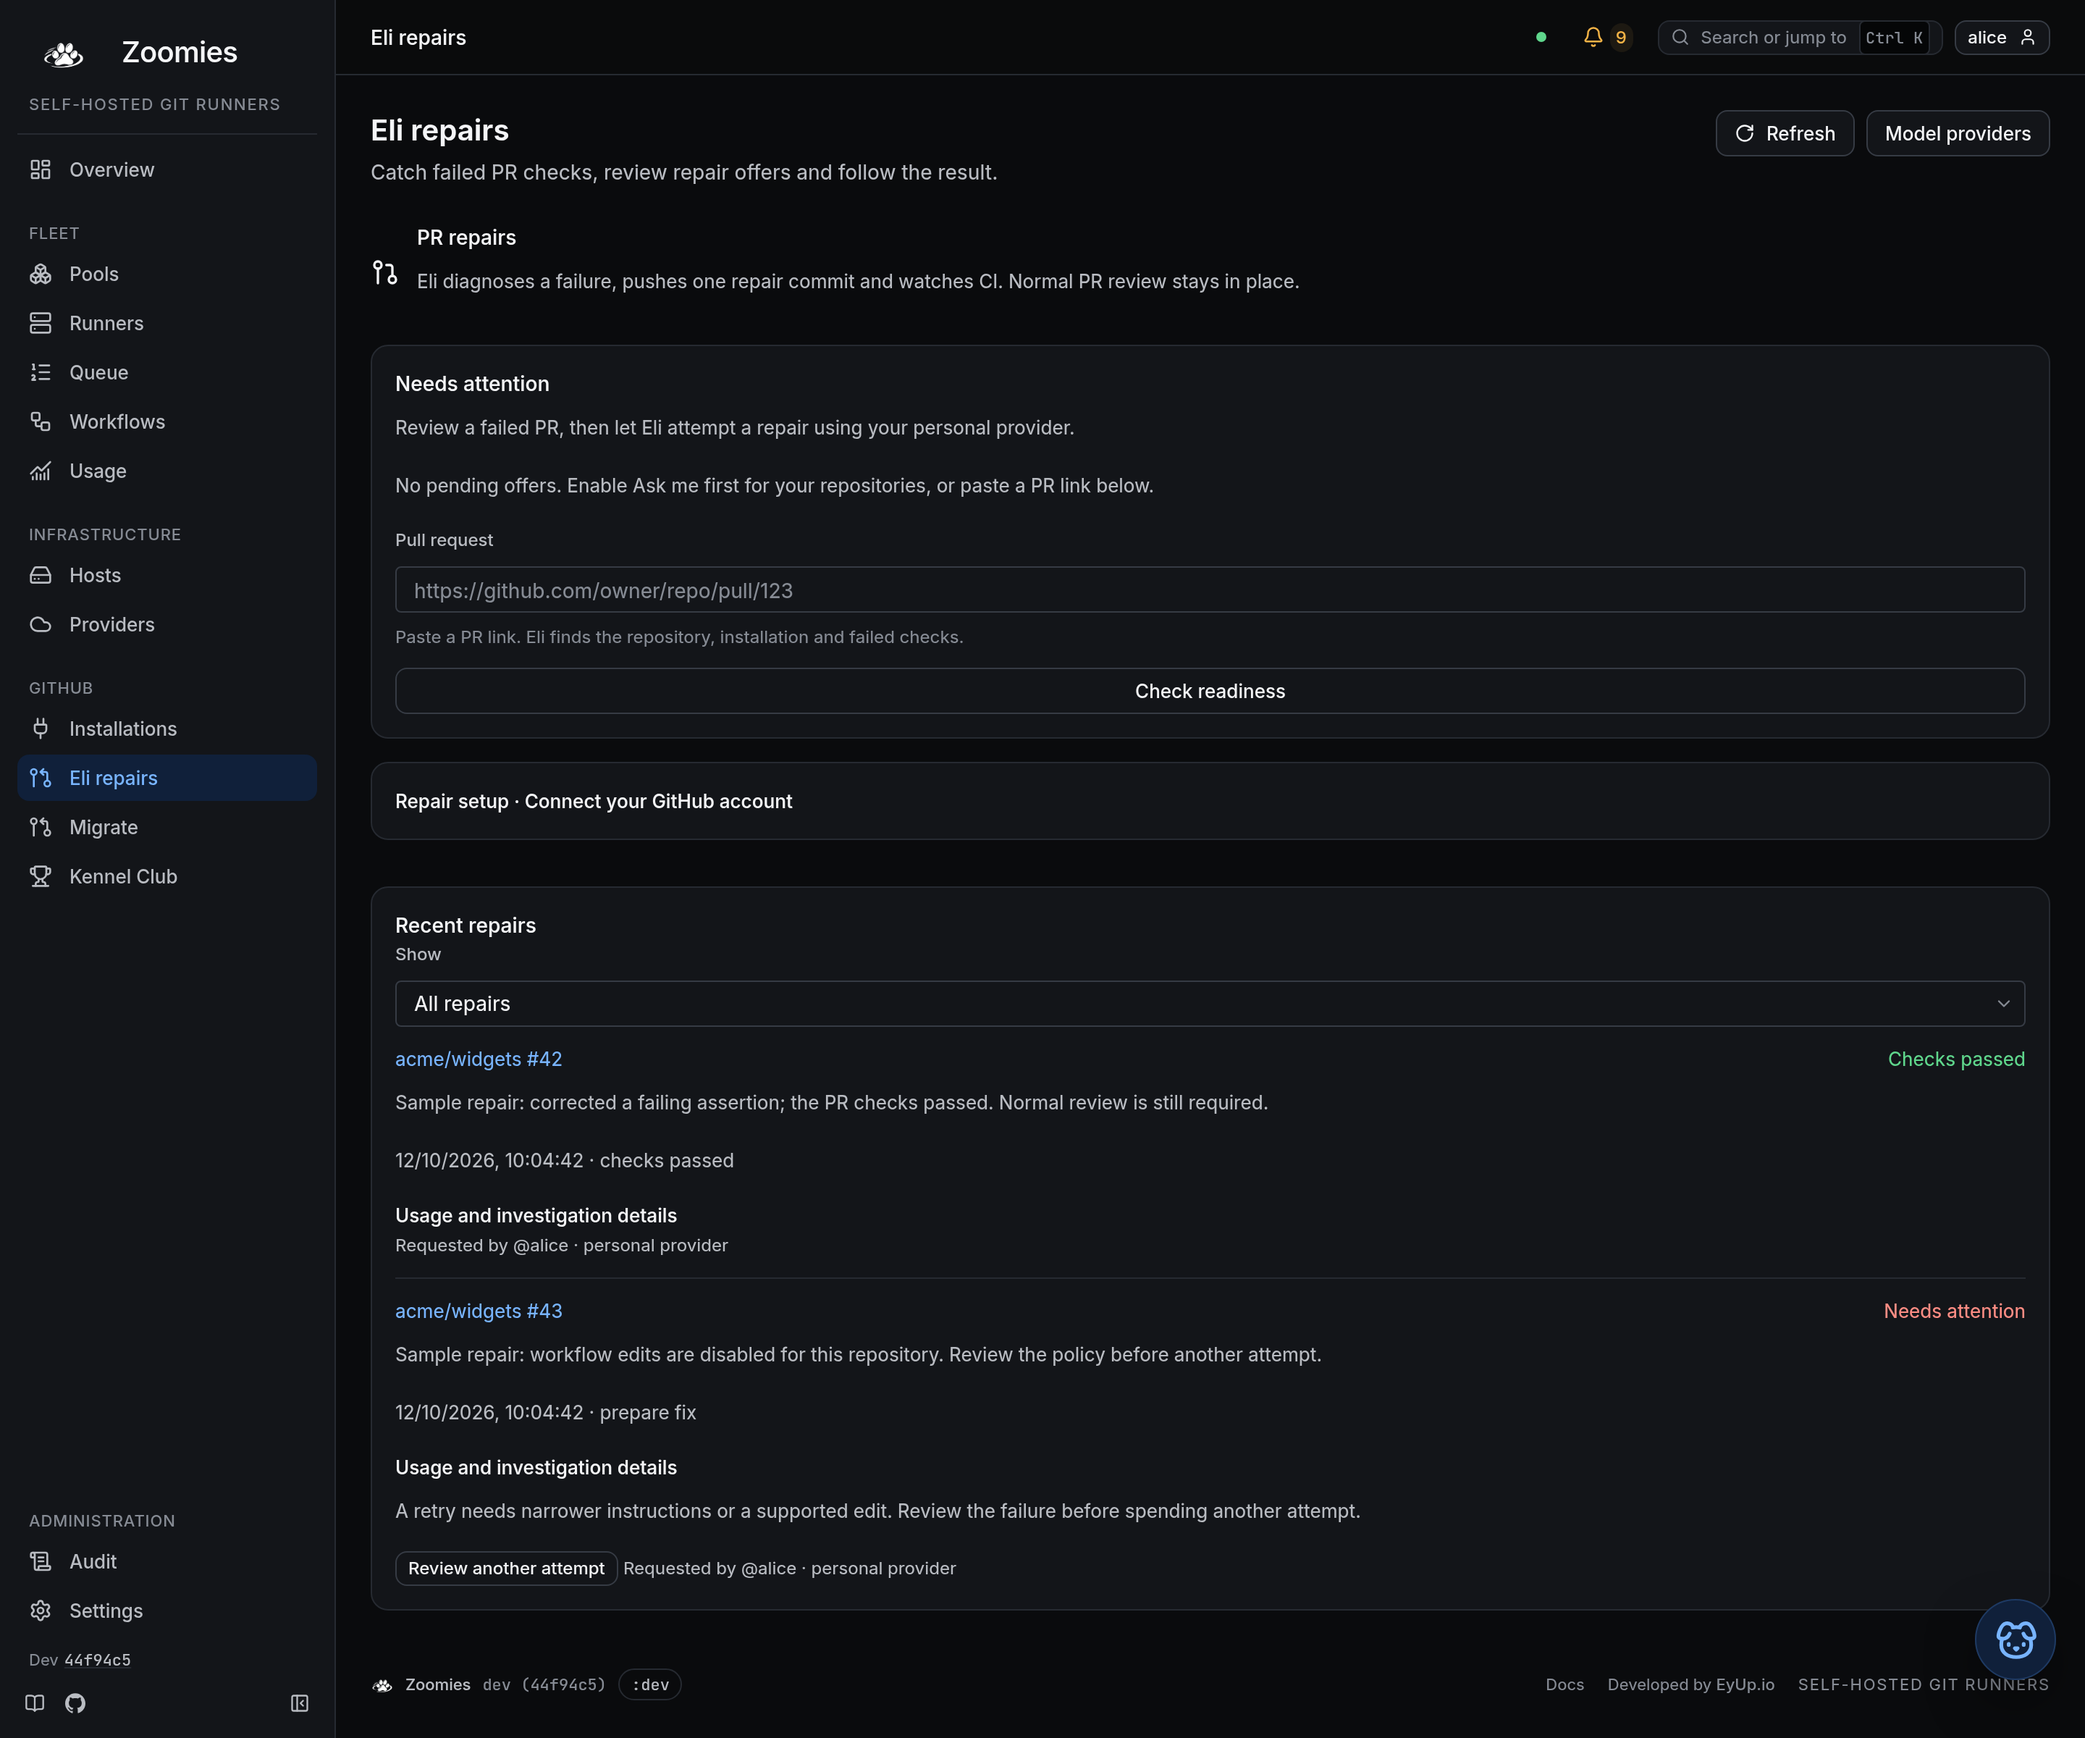
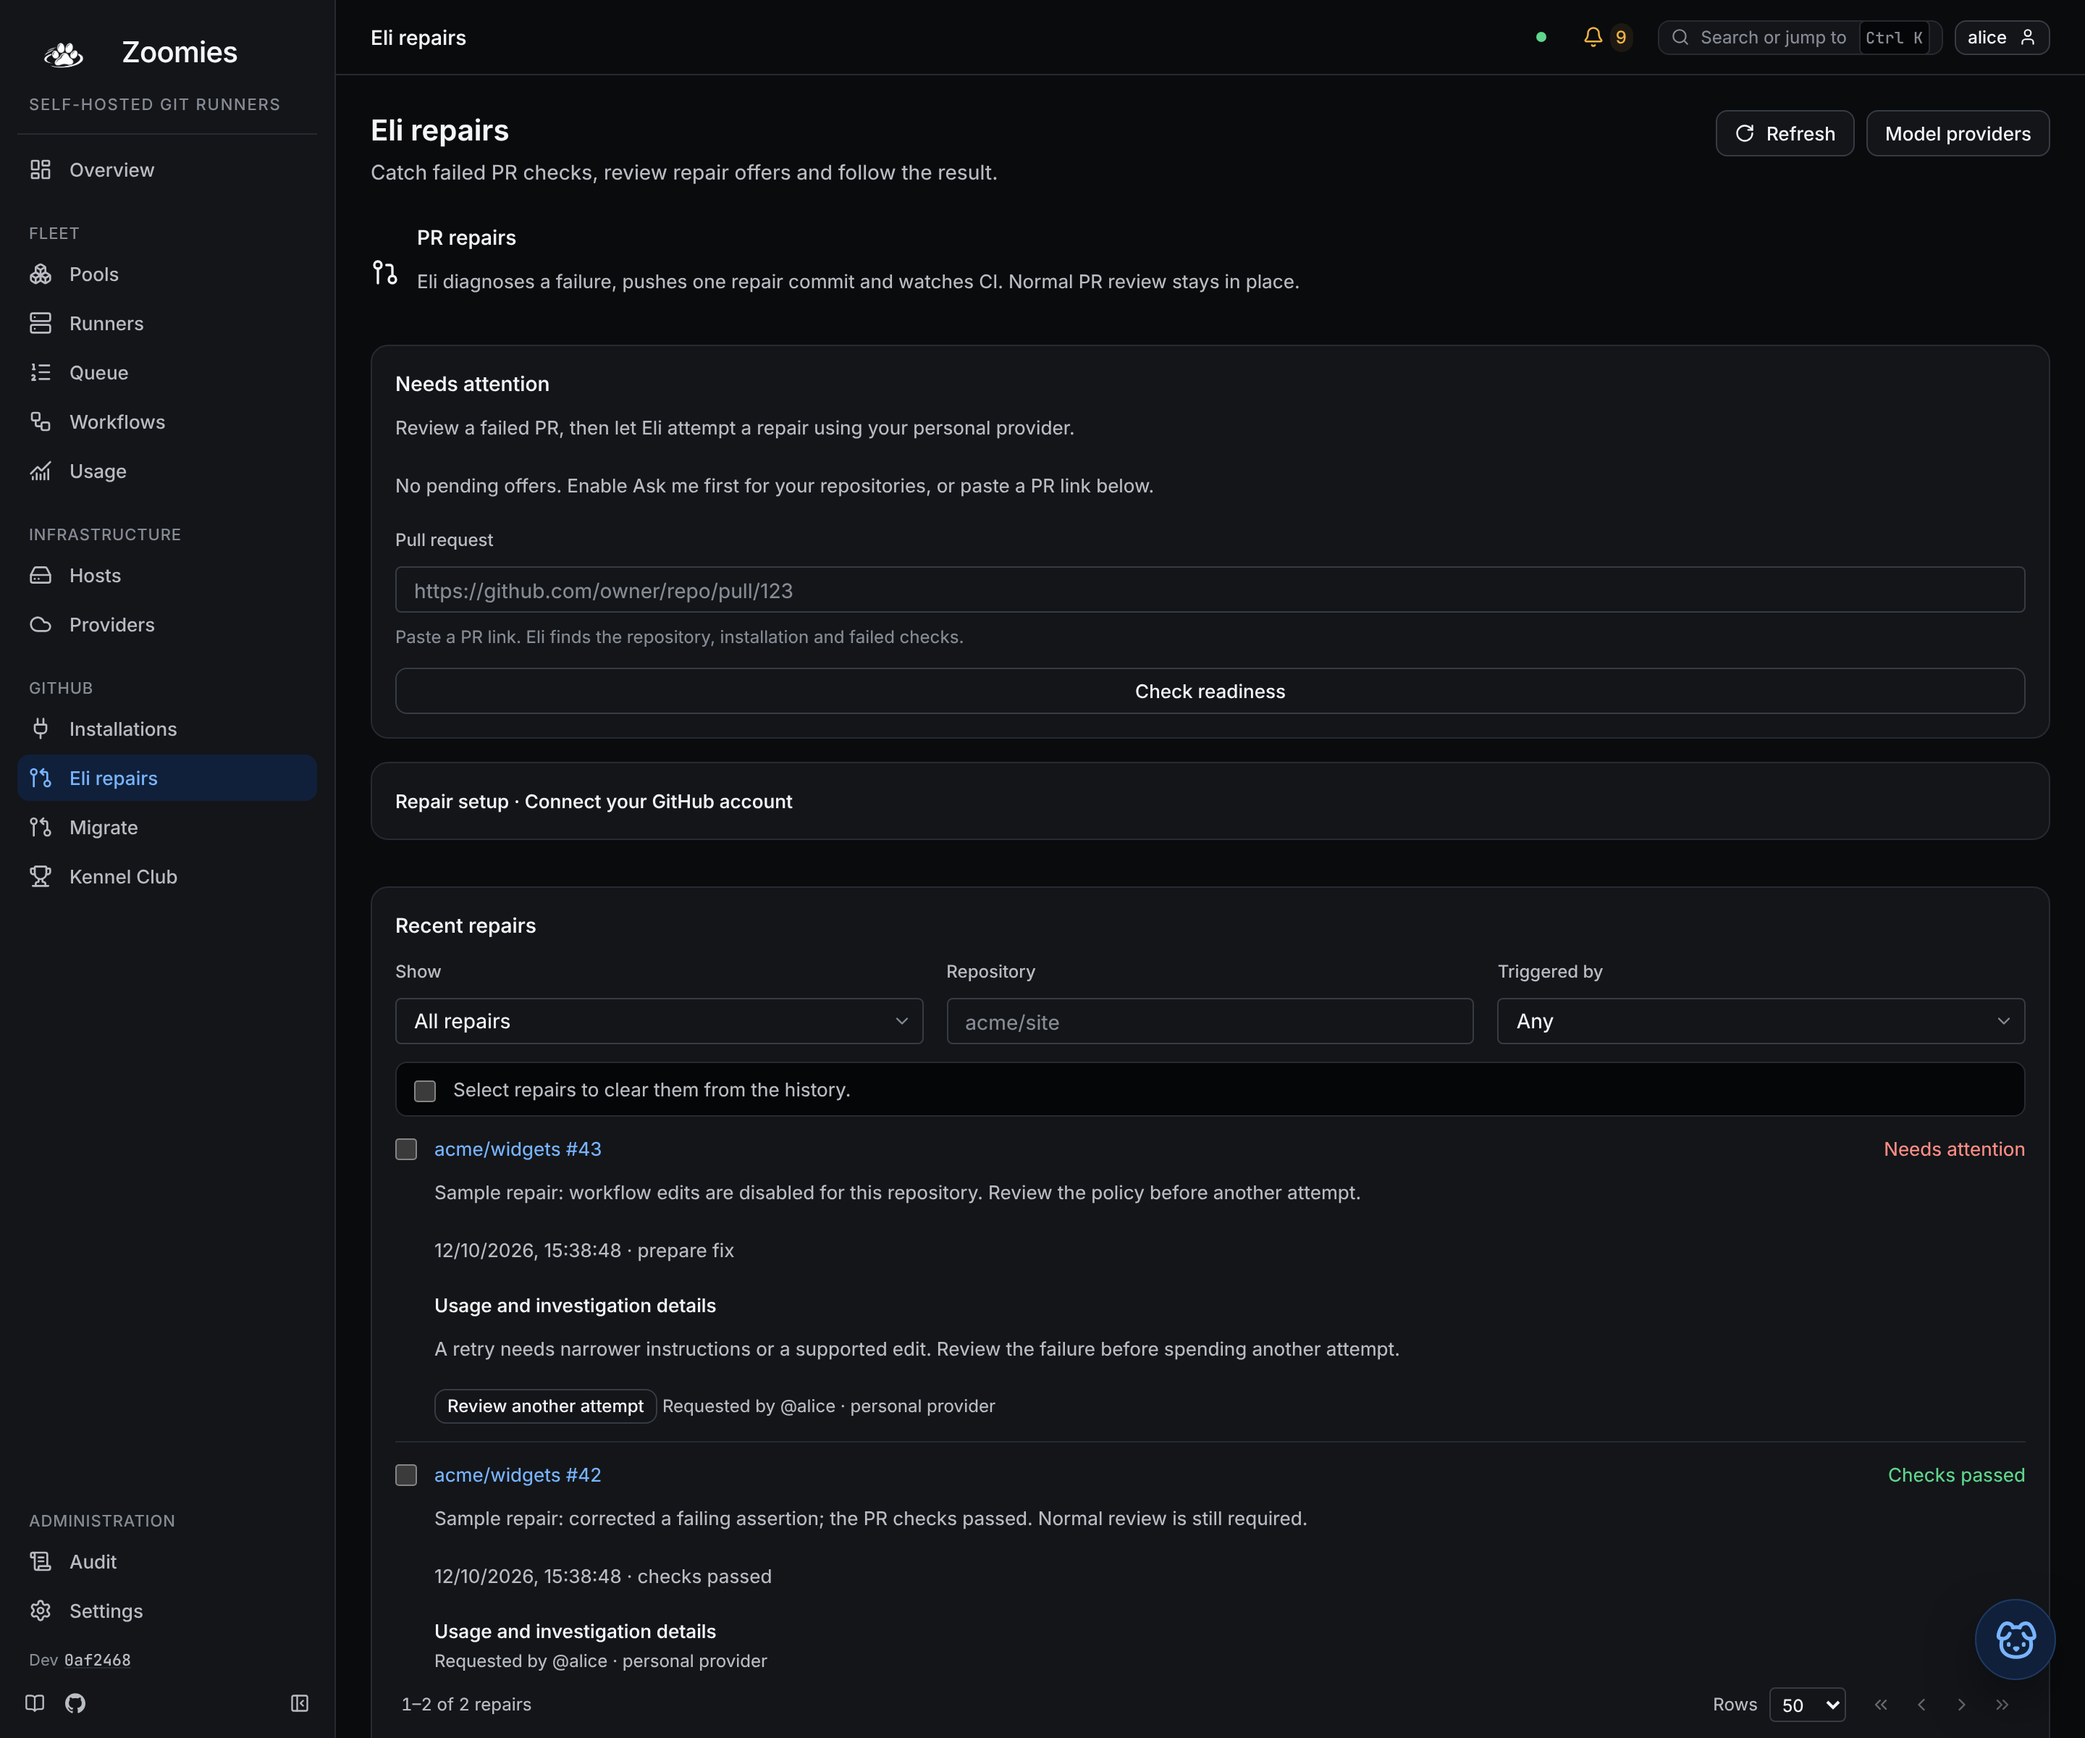
Show the history's filters, row checkboxes and page controls in the Eli repairs screenshots
The Recent repairs card now has a filter bar, a checkbox on each row and
pagination, so the two screenshots that show it were out of date. Only those
two images are recaptured (the readiness and setup shots show other parts of the
page and would change only by the build hash in the sidebar footer), and the
alt text says what the picture now shows.

Claude-Session: https://claude.ai/code/session_01HFRrKmDsA4twbZ7jRgzfDS

diff --git a/docs/eli.md b/docs/eli.md
@@ -356,8 +356,8 @@ setup. The history below uses labelled sample outcomes; no real PR was changed
 to produce these images. A stopped attempt explains what needs attention before
 you spend another attempt, while a passed repair still needs normal PR review.
 
-![Eli repairs with sample history: a passed repair and an attempt needing attention, their explanations and investigation details below the PR request form](screenshots/eli-repairs-dark.webp#only-dark){ .zoomies-shot }
-![Eli repairs with sample history: a passed repair and an attempt needing attention, their explanations and investigation details below the PR request form](screenshots/eli-repairs-light.webp#only-light){ .zoomies-shot }
+![Eli repairs with sample history: the PR request form, then Recent repairs with its filters, a checkbox on each row, a passed repair, an attempt needing attention and the page controls](screenshots/eli-repairs-dark.webp#only-dark){ .zoomies-shot }
+![Eli repairs with sample history: the PR request form, then Recent repairs with its filters, a checkbox on each row, a passed repair, an attempt needing attention and the page controls](screenshots/eli-repairs-light.webp#only-light){ .zoomies-shot }
 
 1. Open **Eli repairs** from the navigation, or **Review a repair with Eli**
    beside a failed job. Paste a PR link to check readiness without invoking a model.

diff --git a/docs/ui.md b/docs/ui.md
@@ -700,8 +700,8 @@ user; the requester then confirms that their own provider pays for the repairs
 they ask for. [How repairs work](eli.md#set-up-pr-repairs). `g e` opens it
 from anywhere.
 
-![Eli repairs with sample history: a passed repair and an attempt needing attention, their explanations and investigation details below the PR request form](screenshots/eli-repairs-dark.webp#only-dark){ .zoomies-shot }
-![Eli repairs with sample history: a passed repair and an attempt needing attention, their explanations and investigation details below the PR request form](screenshots/eli-repairs-light.webp#only-light){ .zoomies-shot }
+![Eli repairs with sample history: the PR request form, then Recent repairs with its filters, a checkbox on each row, a passed repair, an attempt needing attention and the page controls](screenshots/eli-repairs-dark.webp#only-dark){ .zoomies-shot }
+![Eli repairs with sample history: the PR request form, then Recent repairs with its filters, a checkbox on each row, a passed repair, an attempt needing attention and the page controls](screenshots/eli-repairs-light.webp#only-light){ .zoomies-shot }
 
 **Check readiness** explains what must be set up before starting. This example
 asks for a confirmed GitHub account link and an enabled personal provider;
